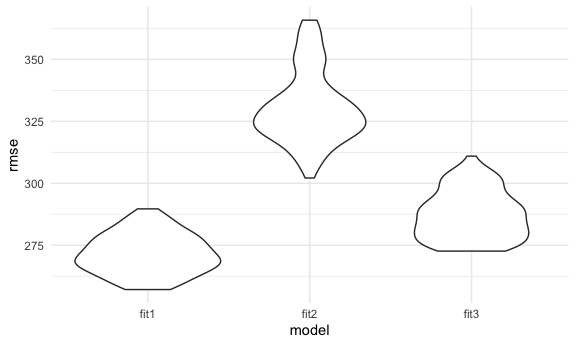
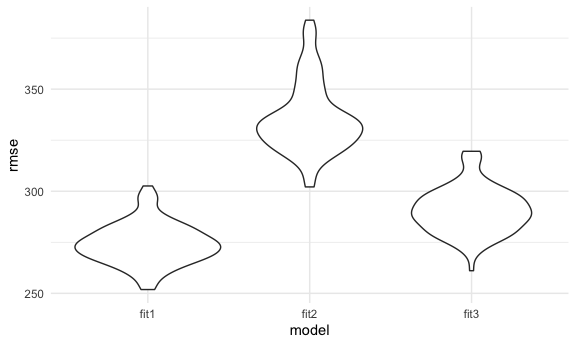
problem 3

diff --git a/p8105_hw6_mb4757.md b/p8105_hw6_mb4757.md
@@ -369,11 +369,10 @@ baby_df %>%
 ```
 
 <img src="p8105_hw6_mb4757_files/figure-gfm/unnamed-chunk-7-1.png" width="90%" />
-From the residual and prediction values plot, we can see that (1)
-they’re pretty symmetrically distributed, tending to cluster towards
-the middle of the plot. (2) they’re clustered around the lower single
-digits of the y = 0. (3) they’re random spread, and there aren’t any
-clear patterns.
+From the residual and prediction values plot, we can see that (1) the
+plot has some outliers with residuals around 2000 to 2500. (2) they’re
+clustered around the lower single digits of the y = 0. (3) it looks like
+a nonconstant variance plot with an increasing trend.
 
 second model:
 
@@ -425,12 +424,12 @@ cv_df %>% pull(train) %>% .[[1]] %>% as_tibble()
     ##  2  3062 1          34      48   156      65 2        25.9 0             14
     ##  3  3345 2          36      50   148      85 1        39.9 0             12
     ##  4  3062 1          34      52   157      55 1        40   0             14
-    ##  5  3374 2          34      52   156       5 1        41.6 0             13
+    ##  5  3374 1          33      52   129      55 1        40.7 0             12
     ##  6  2523 2          33      46   126      96 2        40.3 0             14
-    ##  7  3459 1          33      50   169      75 2        40.7 0             12
-    ##  8  3317 2          35      51   130      55 1        43.4 0             13
-    ##  9  3459 1          35      51   146      55 1        39.4 0             12
-    ## 10  3175 2          35      48   158      75 1        39.7 0             13
+    ##  7  2778 2          33      49   140       5 1        37.4 0             12
+    ##  8  3515 1          36      52   146      85 1        40.3 0             11
+    ##  9  3459 1          33      50   169      75 2        40.7 0             12
+    ## 10  3317 2          35      51   130      55 1        43.4 0             13
     ## # … with 3,463 more rows, and 10 more variables: mheight <dbl>, momage <dbl>,
     ## #   mrace <fct>, parity <dbl>, pnumlbw <dbl>, pnumsga <dbl>, ppbmi <dbl>,
     ## #   ppwt <dbl>, smoken <dbl>, wtgain <dbl>
@@ -442,16 +441,16 @@ cv_df %>% pull(test) %>% .[[1]] %>% as_tibble()
     ## # A tibble: 869 x 20
     ##      bwt babysex bhead blength delwt fincome frace gaweeks malform menarche
     ##    <dbl> <fct>   <dbl>   <dbl> <dbl>   <dbl> <fct>   <dbl> <fct>      <dbl>
-    ##  1  3374 1          33      52   129      55 1        40.7 0             12
-    ##  2  2778 2          33      49   140       5 1        37.4 0             12
-    ##  3  3515 1          36      52   146      85 1        40.3 0             11
-    ##  4  3629 2          36      52   154      65 1        40.3 0             11
-    ##  5  3374 2          35      57   147      45 1        39.6 0             12
-    ##  6  3175 1          34      49   148      96 2        39.7 0             10
-    ##  7  3629 1          36      52   152      45 1        39.6 0             11
-    ##  8  3402 1          36      54   161      95 1        40.1 0             11
-    ##  9  3827 2          35      51   130      45 1        41.3 0             12
-    ## 10  3799 1          38      53   167      75 1        39.9 0             12
+    ##  1  3374 2          34      52   156       5 1        41.6 0             13
+    ##  2  3544 1          35      51   129      65 1        39.6 0             12
+    ##  3  2551 2          33      49   120      75 2        38.1 0             11
+    ##  4  3175 1          34      49   148      96 2        39.7 0             10
+    ##  5  2977 2          36      51   135      45 1        41.7 0             13
+    ##  6  3402 1          36      54   161      95 1        40.1 0             11
+    ##  7  3005 2          34      51   149      85 1        39.3 0             14
+    ##  8  3232 2          34      51   155      55 1        41.6 0             15
+    ##  9  2948 2          34      49   135      75 1        42.7 0             12
+    ## 10  3118 1          34      52   130      75 1        41   0             12
     ## # … with 859 more rows, and 10 more variables: mheight <dbl>, momage <dbl>,
     ## #   mrace <fct>, parity <dbl>, pnumlbw <dbl>, pnumsga <dbl>, ppbmi <dbl>,
     ## #   ppwt <dbl>, smoken <dbl>, wtgain <dbl>
@@ -510,12 +509,177 @@ cv_df %>%
     ## # A tibble: 3 x 2
     ##   model avg_rmse
     ##   <chr>    <dbl>
-    ## 1 fit1      271.
-    ## 2 fit2      331.
-    ## 3 fit3      287.
+    ## 1 fit1      274.
+    ## 2 fit2      336.
+    ## 3 fit3      291.
 
 After comparing the three models by average rmse and violin plots of
 rmse, we can see that fit1 model has the smallest average rmse.
 Therefore, this is the optimal model among these three models.
 
 ## Problem 3
+
+``` r
+weather_df = 
+  rnoaa::meteo_pull_monitors(
+    c("USW00094728"),
+    var = c("PRCP", "TMIN", "TMAX"), 
+    date_min = "2017-01-01",
+    date_max = "2017-12-31") %>%
+  mutate(
+    name = recode(id, USW00094728 = "CentralPark_NY"),
+    tmin = tmin / 10,
+    tmax = tmax / 10) %>%
+  select(name, id, everything())
+```
+
+    ## Registered S3 method overwritten by 'hoardr':
+    ##   method           from
+    ##   print.cache_info httr
+
+    ## using cached file: /Users/Anna/Library/Caches/R/noaa_ghcnd/USW00094728.dly
+
+    ## date created (size, mb): 2020-10-07 13:24:28 (7.525)
+
+    ## file min/max dates: 1869-01-01 / 2020-10-31
+
+``` r
+weather_df %>% 
+  ggplot(aes(x = tmin, y= tmax)) +
+  geom_point() +
+  geom_smooth(method = "lm")
+```
+
+    ## `geom_smooth()` using formula 'y ~ x'
+
+<img src="p8105_hw6_mb4757_files/figure-gfm/unnamed-chunk-14-1.png" width="90%" />
+
+``` r
+lm(tmax ~ tmin, data = weather_df) %>% broom::tidy() 
+```
+
+    ## # A tibble: 2 x 5
+    ##   term        estimate std.error statistic   p.value
+    ##   <chr>          <dbl>     <dbl>     <dbl>     <dbl>
+    ## 1 (Intercept)     7.21    0.226       31.8 3.81e-107
+    ## 2 tmin            1.04    0.0170      61.2 2.98e-193
+
+``` r
+lm(tmax ~ tmin, data = weather_df) %>% broom::glance() %>% select(adj.r.squared)
+```
+
+    ## # A tibble: 1 x 1
+    ##   adj.r.squared
+    ##           <dbl>
+    ## 1         0.911
+
+``` r
+bootstrap_df = 
+weather_df %>% #change the datasets also works for the same codes
+  bootstrap(5000, id = "strap_number") %>% 
+    mutate(
+    models = map(.x = strap, ~lm(tmax ~ tmin, data = .x)),
+    tidy = map(models, broom::tidy),
+    glance = map(models, broom::glance)
+  ) %>% 
+  select(strap_number, tidy, glance)
+bootstrap_df
+```
+
+    ## # A tibble: 5,000 x 3
+    ##    strap_number tidy             glance           
+    ##    <chr>        <list>           <list>           
+    ##  1 0001         <tibble [2 × 5]> <tibble [1 × 12]>
+    ##  2 0002         <tibble [2 × 5]> <tibble [1 × 12]>
+    ##  3 0003         <tibble [2 × 5]> <tibble [1 × 12]>
+    ##  4 0004         <tibble [2 × 5]> <tibble [1 × 12]>
+    ##  5 0005         <tibble [2 × 5]> <tibble [1 × 12]>
+    ##  6 0006         <tibble [2 × 5]> <tibble [1 × 12]>
+    ##  7 0007         <tibble [2 × 5]> <tibble [1 × 12]>
+    ##  8 0008         <tibble [2 × 5]> <tibble [1 × 12]>
+    ##  9 0009         <tibble [2 × 5]> <tibble [1 × 12]>
+    ## 10 0010         <tibble [2 × 5]> <tibble [1 × 12]>
+    ## # … with 4,990 more rows
+
+r^2:
+
+``` r
+rsquare_df = bootstrap_df %>% unnest(glance) %>% select(strap_number, adj.r.squared) 
+
+# CI for R^2
+rsquare_df %>% 
+  summarise(
+    avg_r_square = mean(adj.r.squared),
+    ci_lower = quantile(adj.r.squared, 0.025),
+    ci_upper = quantile(adj.r.squared, 0.975)
+  )
+```
+
+    ## # A tibble: 1 x 3
+    ##   avg_r_square ci_lower ci_upper
+    ##          <dbl>    <dbl>    <dbl>
+    ## 1        0.911    0.894    0.927
+
+``` r
+# plot
+ rsquare_df %>%
+  ggplot(aes(adj.r.squared)) +
+  geom_density()
+```
+
+<img src="p8105_hw6_mb4757_files/figure-gfm/unnamed-chunk-16-1.png" width="90%" />
+
+From the density plot, we can see that the distribution for adjusted r
+squared is approximate normal, but it looks like it has two peaks. The
+average value of adjsuted r squared is 0.911.
+
+log(β̂ 0∗β̂ 1):
+
+``` r
+df1 = 
+bootstrap_df %>% unnest(tidy) %>% 
+pivot_wider(
+  names_from = "term",
+  values_from = "estimate") %>% 
+  rename("intercept" = `(Intercept)`) %>% 
+  select(strap_number, tmin) %>% 
+  drop_na()
+
+df2 = 
+bootstrap_df %>% unnest(tidy) %>% 
+pivot_wider(
+  names_from = "term",
+  values_from = "estimate") %>% 
+  rename("intercept" = `(Intercept)`) %>% 
+  select(strap_number, intercept) %>% 
+  drop_na()
+
+merge_df = left_join(df1, df2, by = "strap_number") %>% 
+  mutate(
+    log = log10(tmin*intercept)
+  )
+
+# CI for log(beta1 * beta0)
+merge_df %>% 
+ summarise(
+   avg_log = mean(log),
+    ci_lower = quantile(log, 0.025),
+    ci_upper = quantile(log, 0.975)
+  )
+```
+
+    ## # A tibble: 1 x 3
+    ##   avg_log ci_lower ci_upper
+    ##     <dbl>    <dbl>    <dbl>
+    ## 1   0.874    0.854    0.894
+
+``` r
+# plot
+ merge_df %>%
+  ggplot(aes(log)) +
+  geom_density()
+```
+
+<img src="p8105_hw6_mb4757_files/figure-gfm/unnamed-chunk-17-1.png" width="90%" />
+From the density plot, we can see that the distribution for log(β̂ 0∗β̂
+1) is approximate normal. The average value of log(β̂ 0∗β̂ 1)is 0.874.
